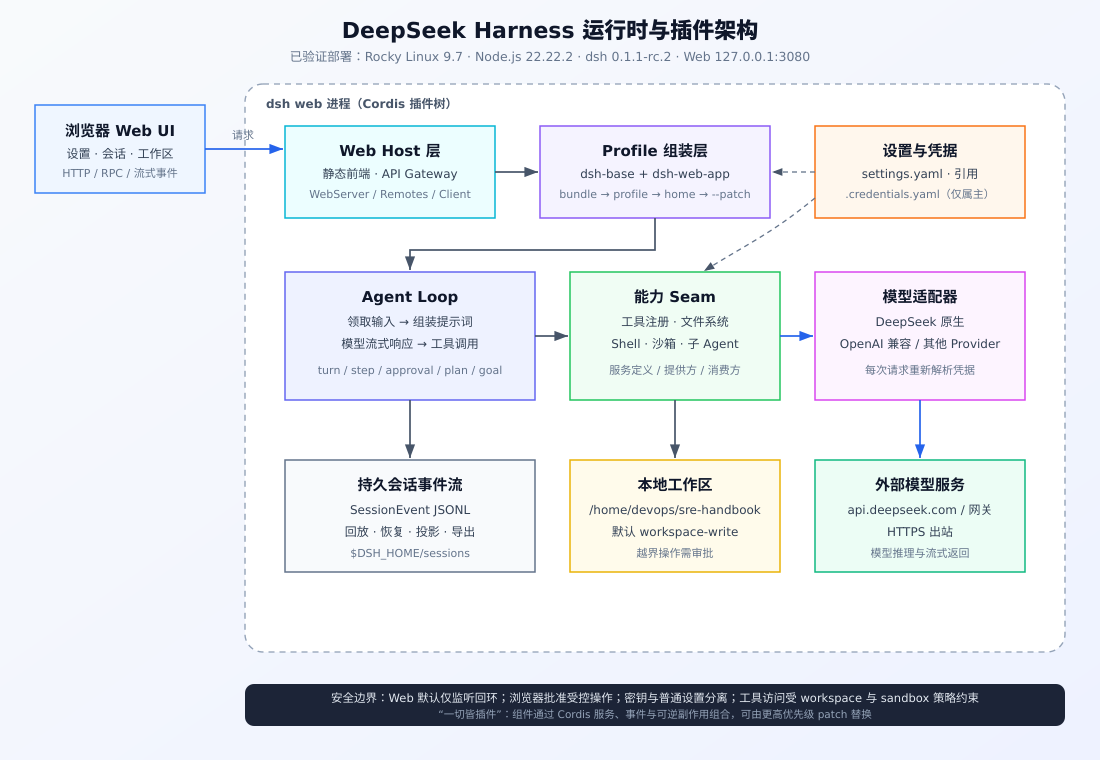
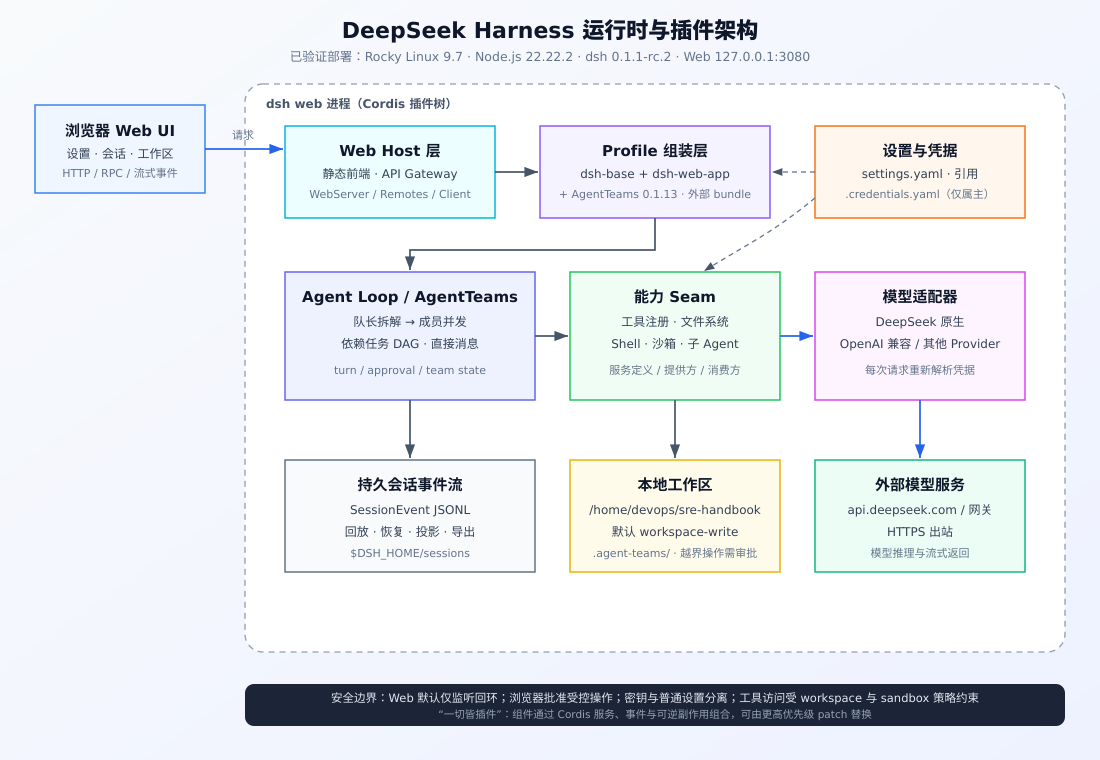
记录 AgentTeams 插件部署

Changed region(s): [[0.2782, 0.3632, 0.4636, 0.5145], [0.5564, 0.6961, 0.68, 0.7566], [0.4945, 0.2421, 0.68, 0.2724]]

diff --git a/automation/deepseek-harness/DeepSeek-Harness部署与使用指南.md b/automation/deepseek-harness/DeepSeek-Harness部署与使用指南.md
@@ -371,6 +371,38 @@ dsh plugin --profile web list
 
 只安装来源可信、版本明确的插件。插件可能获得与 Agent 相同的工作区、网络或进程能力；安装前应审计包内容和依赖链。
 
+### 8.4 AgentTeams 多 Agent 协作插件
+
+本机 Web profile 已固定安装 `@nanmicoder/dsh-agent-teams@0.1.13`。它让当前会话成为队长，
+可创建持久化成员、拆分带依赖的任务、在成员间发送消息，并在 Web UI 显示活动面板。
+
+`dsh plugin` 需要 `pnpm`；在用户级 npm 前缀安装后，通过 Harness 插件管理命令安装：
+
+```bash
+npm install --global --prefix "$HOME/.local" pnpm@11.23.0
+dsh plugin --profile web add @nanmicoder/dsh-agent-teams@0.1.13
+dsh --profile web --dump-config
+systemctl --user restart deepseek-harness.service
+```
+
+刷新 Web UI 后，可在输入框直接使用：
+
+```text
+/agent-teams 从安全、性能和产品角度并行审查当前工作区，输出一份汇总报告
+```
+
+团队状态默认保存在当前 workspace 的 `.agent-teams/`。该目录包含成员、任务和消息状态，
+是否提交到 Git 应按项目数据保留规则决定。卸载命令：
+
+```bash
+dsh plugin --profile web remove @nanmicoder/dsh-agent-teams
+systemctl --user restart deepseek-harness.service
+```
+
+> **兼容性记录：** AgentTeams 0.1.13 上游发布说明实测到 Harness 0.1.0-rc.8，
+> 尚未声明 0.1.1-rc.2 的 peer 范围。本机已在 Harness 0.1.1-rc.2 完成配置合成、
+> 冷启动、Host/Client 注册、公网脚本和设置 API 验收，但尚未执行真实模型的完整团队任务。
+
 ## 9. CLI 常用命令
 
 | 命令 | 用途 |
